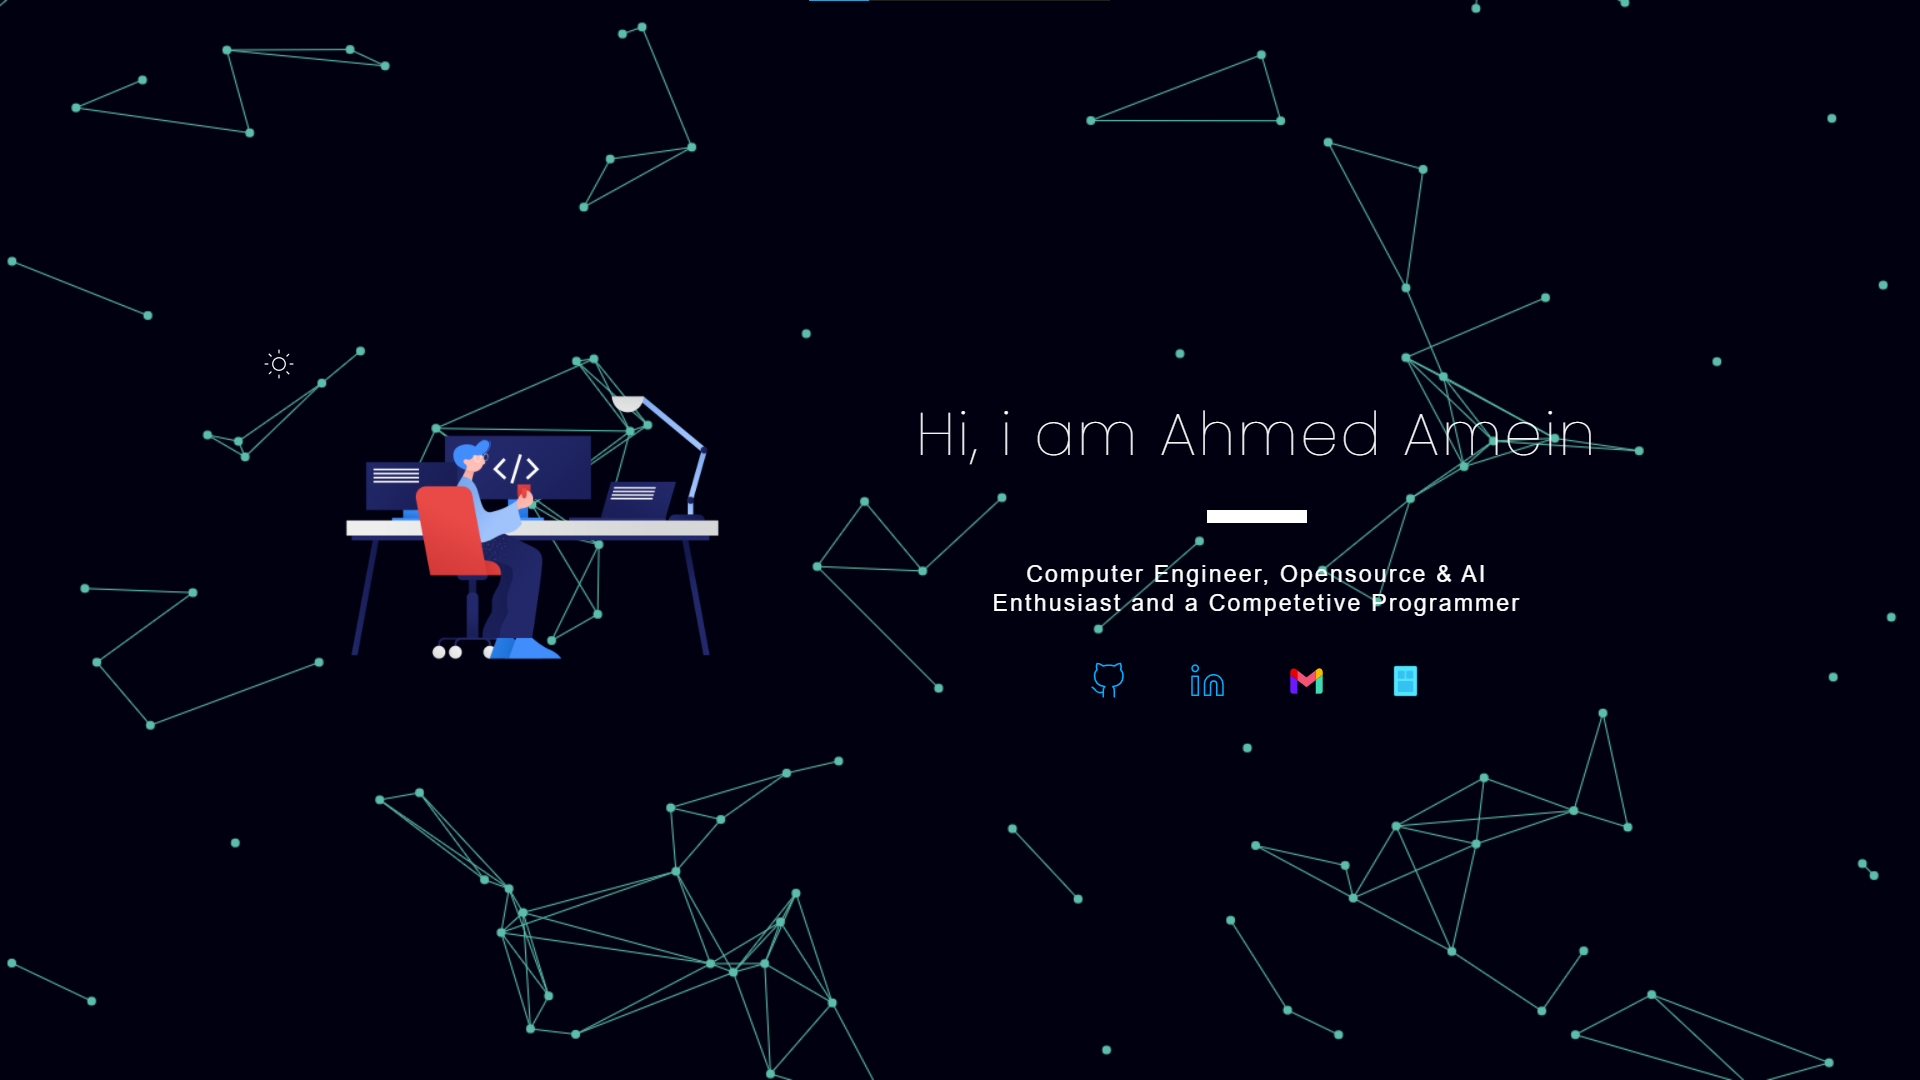
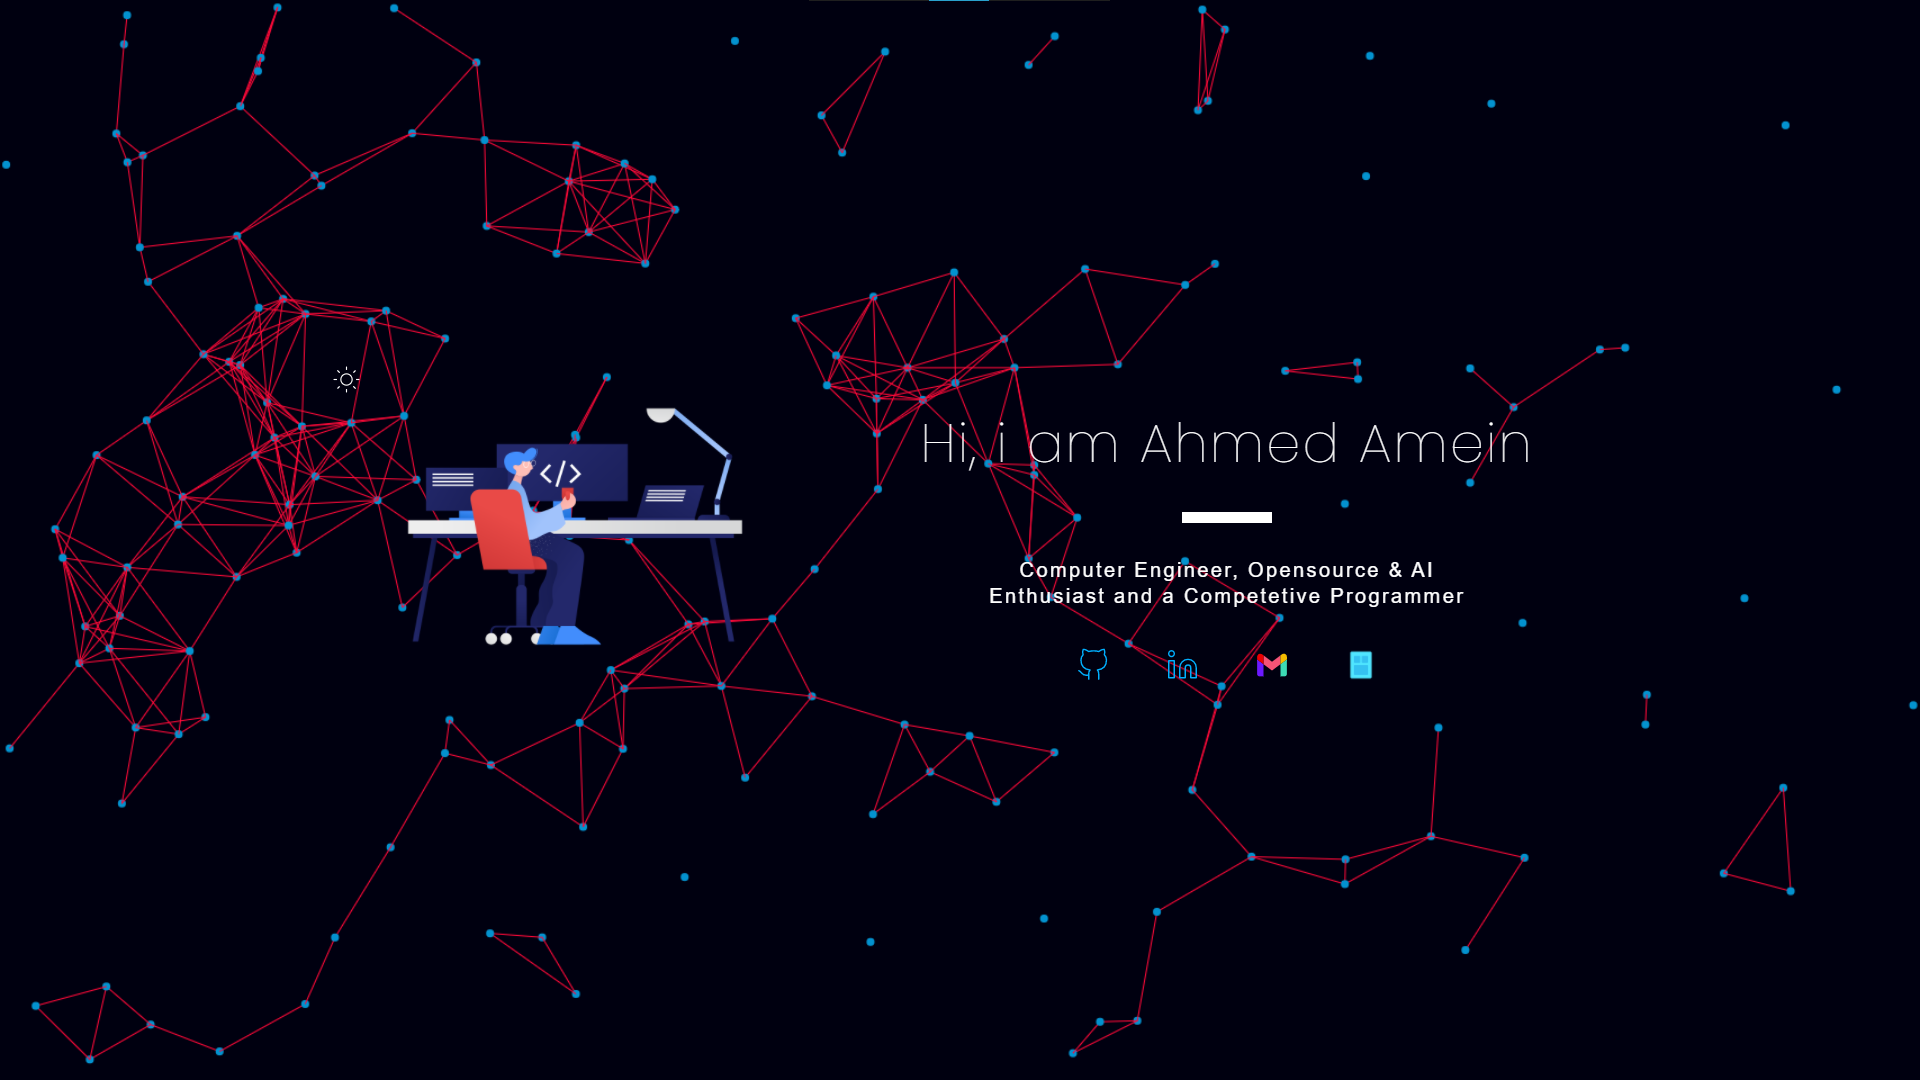
edited readme

diff --git a/js/demo.js b/js/demo.js
@@ -1,12 +1,14 @@
 
 document.addEventListener('DOMContentLoaded', function () {
   particleground(document.getElementById('particles'), {
-    dotColor: '#5cbdaa',
-    lineColor: '#5cbdaa',
-    density:10000,
+    dotColor: '#0392cf',
+    lineColor: '#ff0938',
+    density:10000 - 1000,
     // proximity:105,
     // particleRadius:2,
     // Dotsize:15,
+    parallax:0,
+    
   });
   var intro = document.getElementById('intro');
   intro.style.marginTop = - intro.offsetHeight / 2 + 'px';
